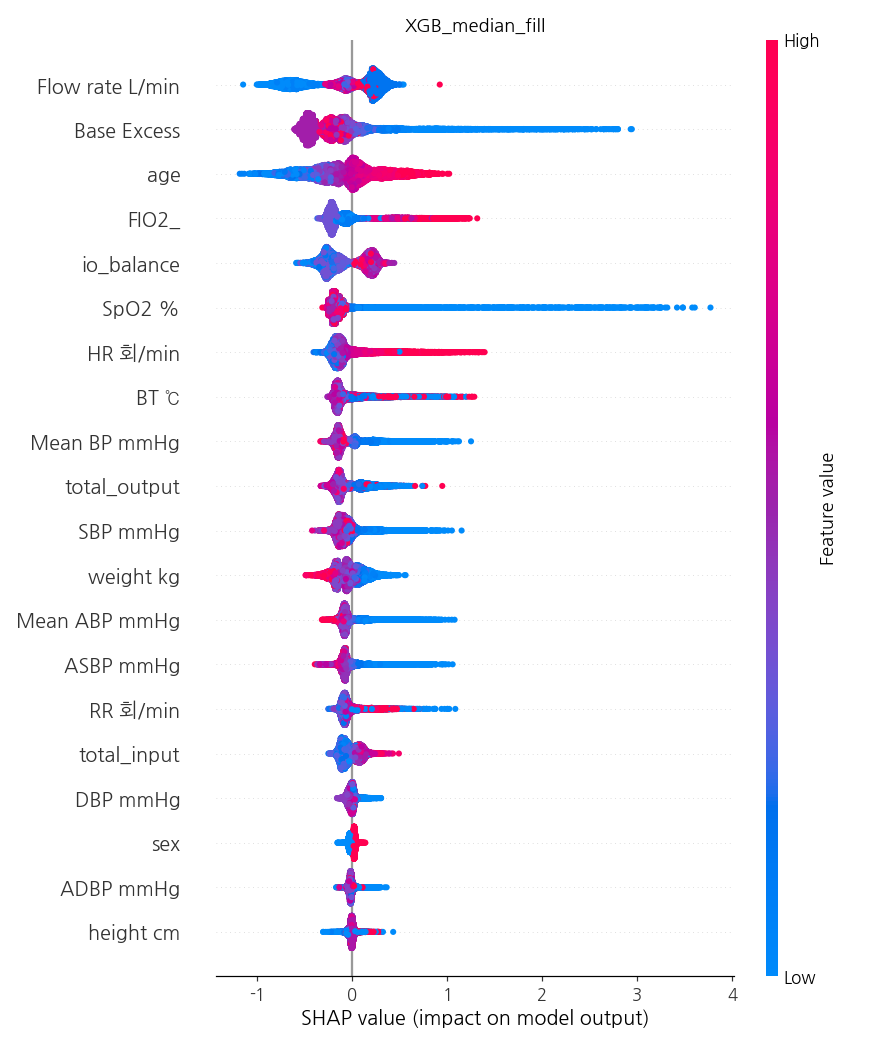
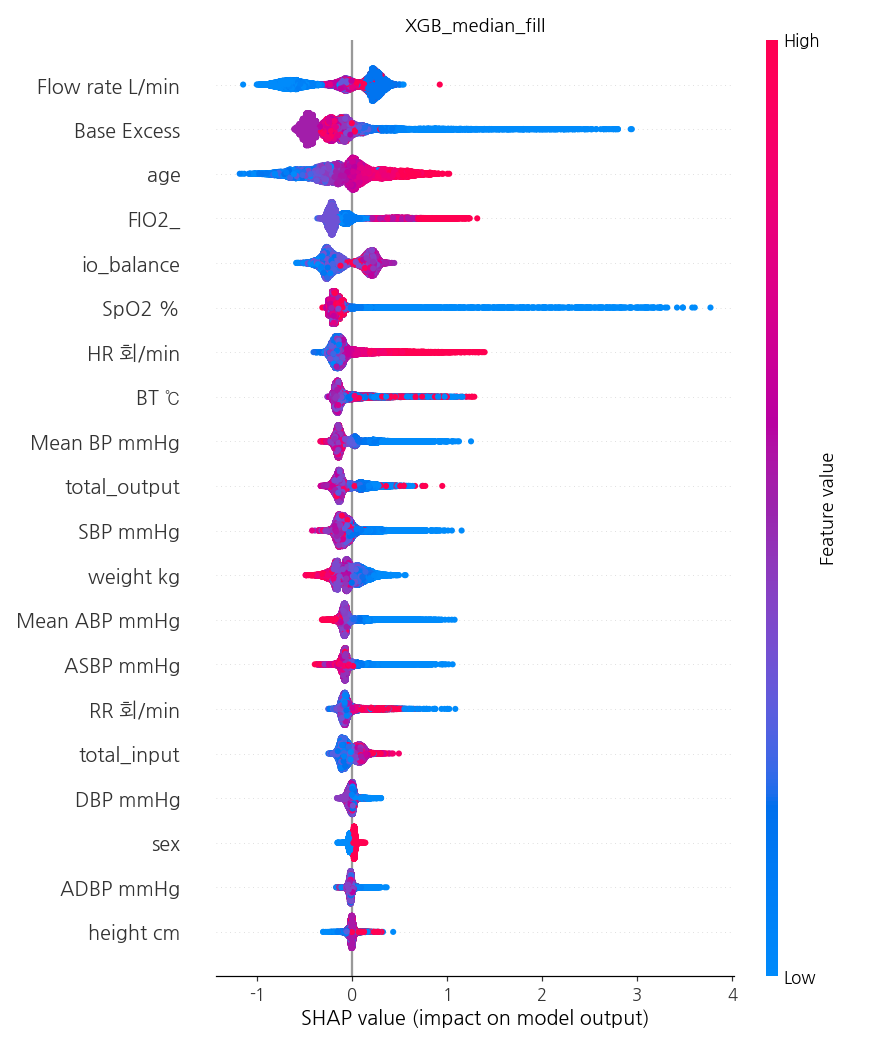
Add 24 h RandomForest results and combined ROC/PR + SHAP for all three models
Claude-Session: https://claude.ai/code/session_01HeU3rVXtZxeXxp219tyGbe

diff --git a/README.md b/README.md
@@ -32,7 +32,7 @@ Cohort with the 24 h window: 50,276 stays (3,391 deaths), 5.09 M hourly rows, 82
 |---|---|---|---|---|
 | XGBoost, native NaN (`--native-nan`) | 0.891 | **0.894** | **0.394** | 0.888 |
 | XGBoost, train-median fill | 0.879 | 0.889 | 0.380 | 0.882 |
-| RandomForest (notebook protocol) | TBD | TBD | TBD | TBD |
+| RandomForest (notebook protocol, 100 trials) | 0.864 | 0.875 | 0.334 | 0.867 |
 
 † `Base Excess` replaced by the train median (or NaN in native-NaN mode) at test time — the notebook's "key-feature" ablation.
 
@@ -78,7 +78,7 @@ python scripts/00_extract_icu_events.py                          # big tables ->
 python scripts/01_build_dataset.py --event death --pre-window 24 # hourly grid + labels + split -> data/icu_death_w24h.csv
 python scripts/04_train_xgb.py data/icu_death_w24h.csv icu_death_w24h_xgb_nan --native-nan --device cuda:0
 python scripts/04_train_xgb.py data/icu_death_w24h.csv icu_death_w24h_xgb --device cuda:0
-python scripts/02_train_rf.py  data/icu_death_w24h.csv icu_death_w24h_rf --n-trials 200 --n-jobs 16 --resume
+python scripts/02_train_rf.py  data/icu_death_w24h.csv icu_death_w24h_rf --n-trials 100 --n-jobs 16 --resume
 python scripts/06_shap_curves.py --task hourly --prefix icu_death_w24h --device cuda:0
 python scripts/03_eda.py --event death --dataset data/icu_death_w24h.csv   # results/eda_icu_death_w24h/EDA.md
 python scripts/05_early_window.py --dataset data/icu_death_w24h.csv --windows 1 3 6 12 24 48 72 120 168
